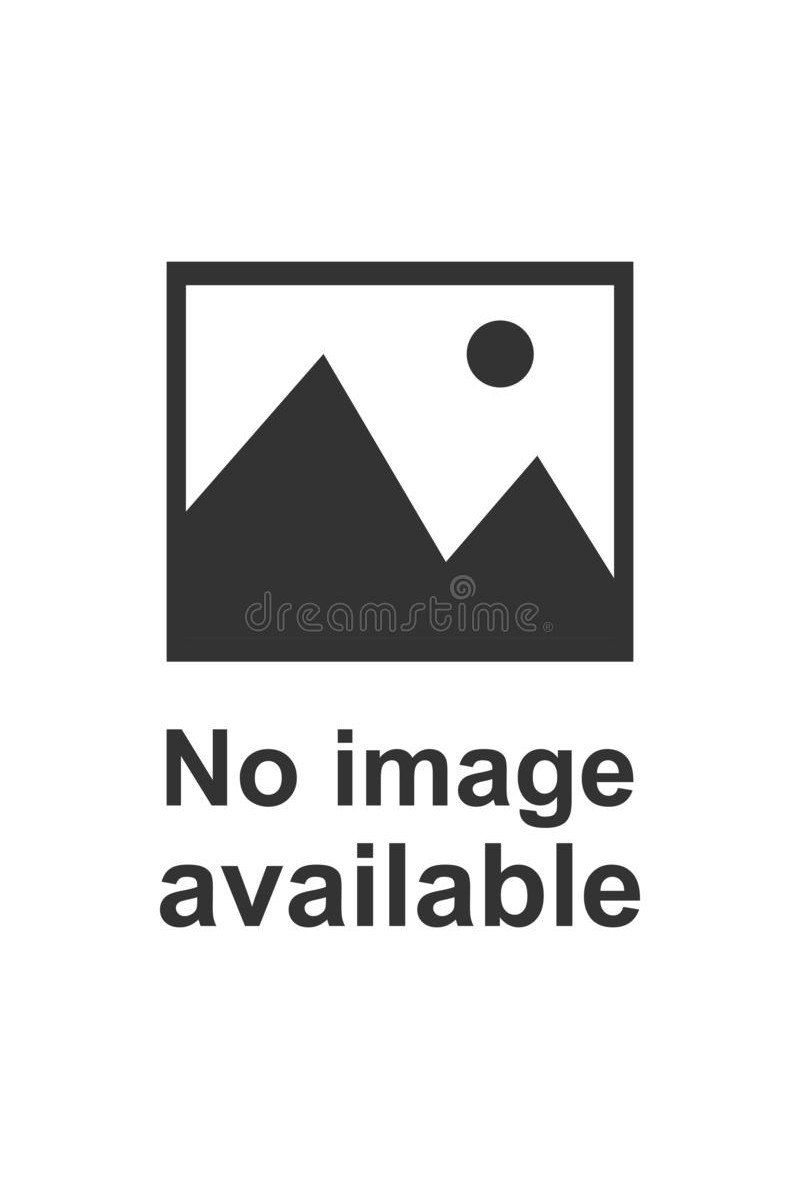
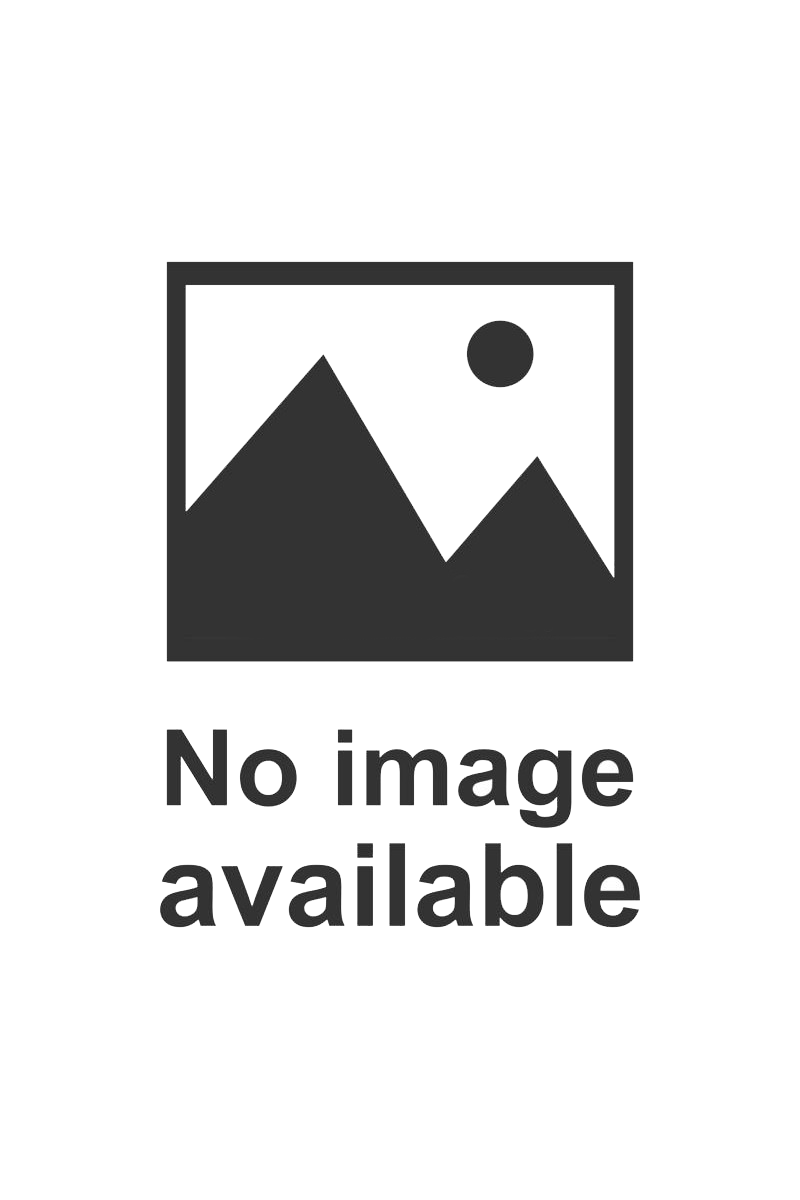
fix image border

Changed region(s): [[0.3125, 0.4625, 0.6875, 0.5242], [0.375, 0.74, 0.4062, 0.7708], [0.2188, 0.74, 0.25, 0.7708]]

diff --git a/lib/ui/widgets/movie_details/components/cast_and_crew.dart b/lib/ui/widgets/movie_details/components/cast_and_crew.dart
@@ -17,29 +17,26 @@ class CastWidget extends StatelessWidget {
 
   @override
   Widget build(BuildContext context) {
-    return ColoredBox(
-      color: Colors.transparent,
-      child: Padding(
-        padding: const EdgeInsets.only(
-            left: 20.0, right: 20.0, top: 20.0, bottom: 10.0),
-        child: Column(
-          crossAxisAlignment: CrossAxisAlignment.start,
-          children: [
-            Padding(
-              padding: const EdgeInsets.all(8.0),
-              child: Text(
-                'Full Cast & Crew',
-                style: Theme.of(context).textTheme.titleMedium,
-              ),
+    return Padding(
+      padding: const EdgeInsets.only(
+          left: 20.0, right: 20.0, top: 20.0, bottom: 10.0),
+      child: Column(
+        crossAxisAlignment: CrossAxisAlignment.start,
+        children: [
+          Padding(
+            padding: const EdgeInsets.all(8.0),
+            child: Text(
+              'Full Cast & Crew',
+              style: Theme.of(context).textTheme.titleMedium,
             ),
-            const SizedBox(
-              height: 250.0,
-              child: Scrollbar(
-                child: _MovieActorListWidget(),
-              ),
+          ),
+          const SizedBox(
+            height: 250.0,
+            child: Scrollbar(
+              child: _MovieActorListWidget(),
             ),
-          ],
-        ),
+          ),
+        ],
       ),
     );
   }

diff --git a/lib/resources/app_images.dart b/lib/resources/app_images.dart
@@ -15,7 +15,7 @@ class AppImages {
       'images/splashscreen/movie-logo@1x.png';
   static const String ellipseDot = 'images/components/Ellipse@1x.png';
   static const String movieAppBarLogo = 'images/components/movie_logo@1x.png';
-  static const String noImageAvailable = 'images/no-image-available.jpg';
+  static const String noImageAvailable = 'images/no-image-available.png';
   static const String noVideoAvailable = 'images/no-video-available.gif';
   static const String imageNotAvailableHorizontal =
       'images/image-not-available.jpg';

diff --git a/lib/ui/widgets/account/components/settings_card_widget.dart b/lib/ui/widgets/account/components/settings_card_widget.dart
@@ -10,7 +10,6 @@ class SettingsCardWidget extends StatefulWidget {
 }
 
 class _SettingsCardWidgetState extends State<SettingsCardWidget> {
-  // bool themeColor = false;
   bool change = false;
 
   @override
